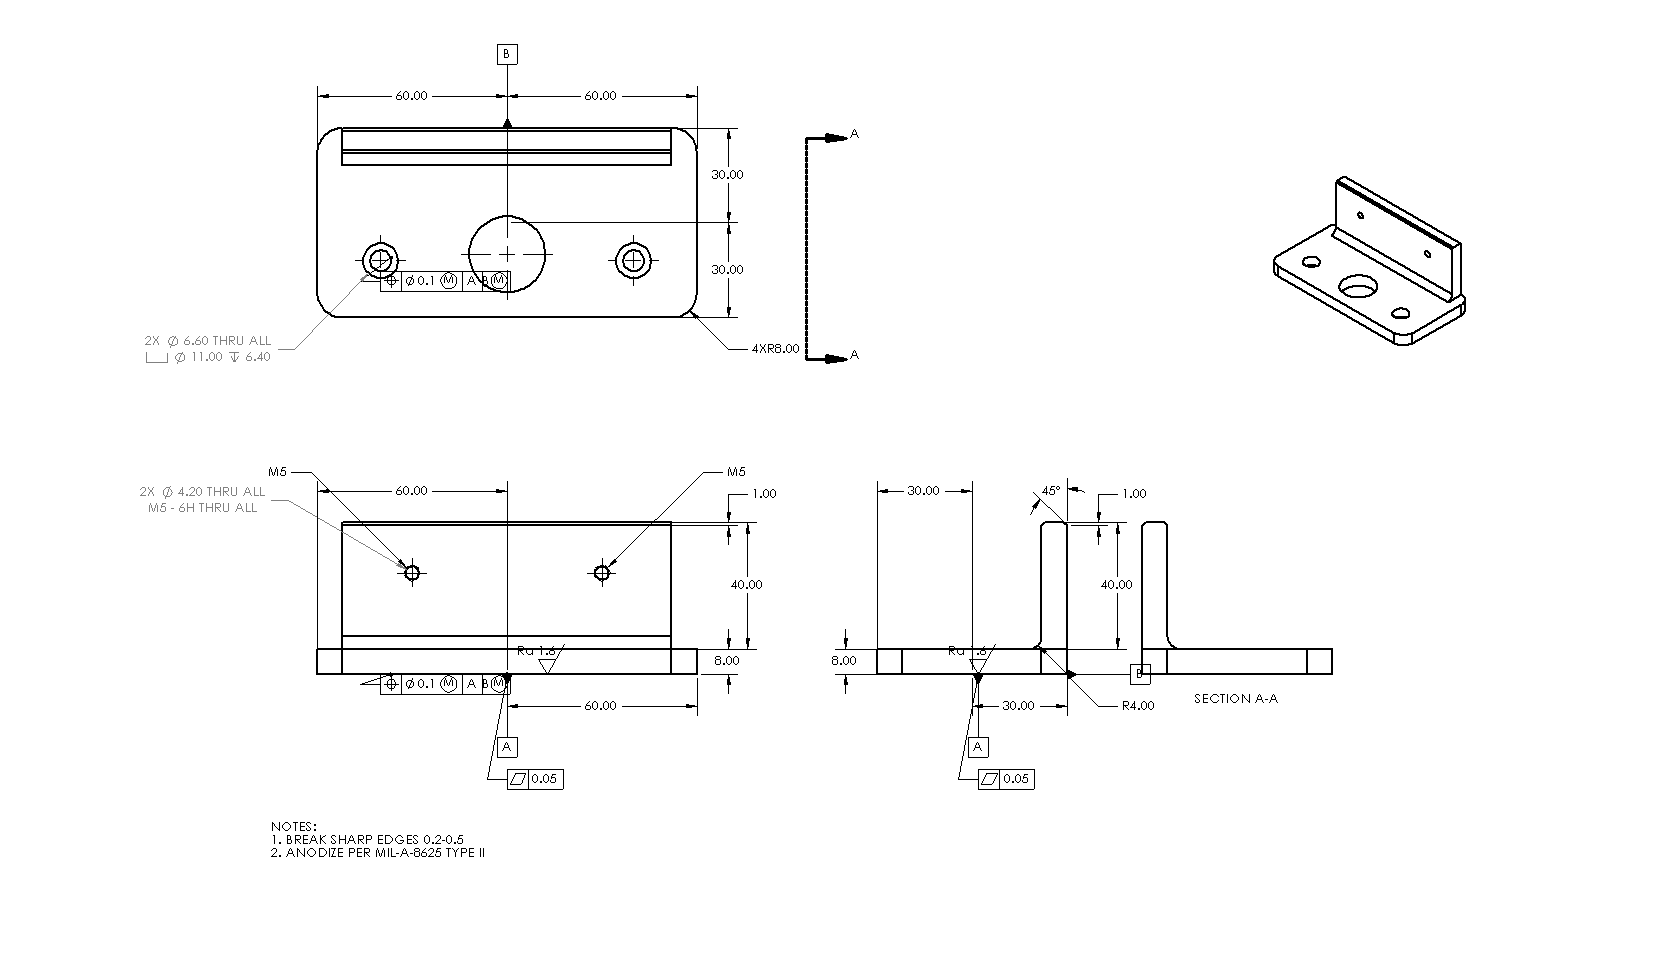
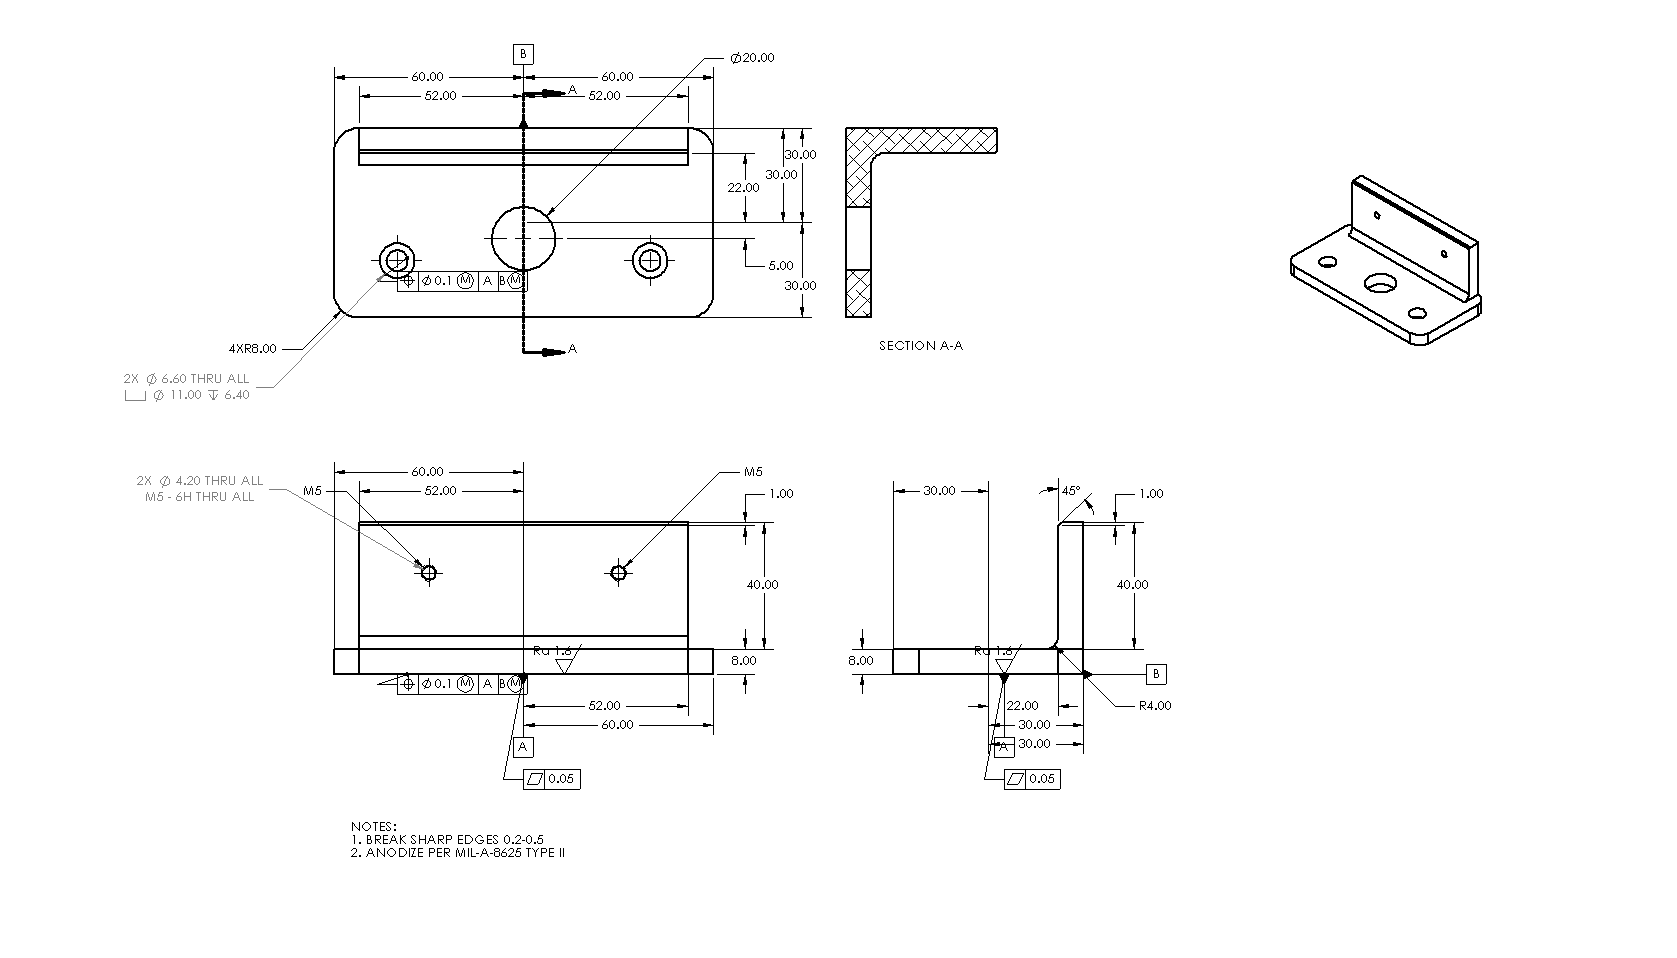
Place section views in free space on the sheet and regenerate the README drawing
Section views go into the first gap beside the parent view that fits on the sheet,
clear of the parent's dimensions. The README bracket drawing showed the old
section bug (cutting line beside the part, no cut); it is regenerated.

diff --git a/src/solidworks_mcp/tools_drawing.py b/src/solidworks_mcp/tools_drawing.py
@@ -322,21 +322,46 @@ def _fit_top_right(view: Any, w: float, h: float, margin: float = 0.015) -> None
         pass
 
 
+def _first_gap(spans: list[tuple[float, float]], start: float, size: float, limit: float, gap: float) -> float | None:
+    """Lowest position >= start where [pos, pos + size] clears every span (with gap) and ends before limit."""
+    pos = start
+    for a, b in sorted(spans):
+        if b + gap <= pos:
+            continue
+        if pos + size + gap <= a:
+            break
+        pos = max(pos, b + gap)
+    return pos if pos + size <= limit else None
+
+
 def _place_beside(view: Any, drw: Any, parent: str, direction: str, gap: float = 0.012) -> None:
-    """Put a section view in free space: right of every view in the parent's row (vertical cut) or
-    below every view in the parent's column (horizontal cut)."""
+    """Put a section view in free space on the sheet, aligned with its parent: in the parent's row for a
+    vertical cut (right of the parent, else left), in its column for a horizontal cut (below, else above)."""
     try:
         own = view.Name
         x0, y0, x1, y1 = _outline(view)
-        others = [v for v in _views(drw) if v["name"] != own]
-        par = next(v for v in others if v["name"] == parent)
-        px0, py0, px1, py1 = (mm(c) for c in par["outline_mm"])
+        w, h = _sheet_size(drw)
+        margin = 0.01
+        others = [[mm(c) for c in v["outline_mm"]] for v in _views(drw) if v["name"] != own]
+        par = [mm(c) for c in next(v for v in _views(drw) if v["name"] == parent)["outline_mm"]]
         if direction == "vertical":
-            row = [mm(v["outline_mm"][2]) for v in others if mm(v["outline_mm"][1]) < py1 and mm(v["outline_mm"][3]) > py0]
-            _move_outline(view, left=max(row) + gap)
+            row = [(o[0], o[2]) for o in others if o[1] < y1 and o[3] > y0]
+            pos = _first_gap(row, par[2] + gap, x1 - x0, w - margin, gap)
+            if pos is not None:
+                _move_outline(view, left=pos)
+            else:  # mirror the search to the left of the parent
+                mirrored = [(w - b, w - a) for a, b in row]
+                pos = _first_gap(mirrored, w - par[0] + gap, x1 - x0, w - margin, gap)
+                _move_outline(view, right=w - pos) if pos is not None else _move_outline(view, left=max(b for _, b in row) + gap)
         else:
-            col = [mm(v["outline_mm"][1]) for v in others if mm(v["outline_mm"][0]) < px1 and mm(v["outline_mm"][2]) > px0]
-            _move_outline(view, top=min(col) - gap)
+            col = [(h - o[3], h - o[1]) for o in others if o[0] < x1 and o[2] > x0]  # measured downwards from the top
+            pos = _first_gap(col, h - par[1] + gap, y1 - y0, h - margin, gap)
+            if pos is not None:
+                _move_outline(view, top=h - pos)
+            else:
+                up = [(o[1], o[3]) for o in others if o[0] < x1 and o[2] > x0]
+                pos = _first_gap(up, par[3] + gap, y1 - y0, h - margin, gap)
+                _move_outline(view, bottom=pos) if pos is not None else _move_outline(view, top=min(o[1] for o in others) - gap)
     except Exception:
         pass
 
@@ -468,7 +493,7 @@ def section_view(
     if sv is None:
         raise SwError("SolidWorks could not create the section view (does the line cross the part?).")
     sv = SW.cast(sv, "IView")
-    _place_beside(sv, drw, view, direction)
+    _place_beside(sv, drw, view, direction, gap=0.03)  # leave room for the parent view's dimensions
     o = [round(to_mm(c), 2) for c in _outline(sv)]
     doc.ForceRebuild3(True)
     hatched = sv.GetFaceHatchCount()

diff --git a/tests/test_units.py b/tests/test_units.py
@@ -244,3 +244,14 @@ def test_sketch_references():
     assert _SEG_RE.match("SEG@4,5") is not None
     for bad in ("seg", "seg:", "seg@1", "face@1,2,3", "pt:1.5"):
         assert _SEG_RE.match(bad) is None, bad
+
+
+def test_view_gap_search():
+    from solidworks_mcp.tools_drawing import _first_gap
+
+    # room between the parent's right edge (0.16) and the next view at 0.30
+    assert _first_gap([(0.03, 0.16), (0.30, 0.41)], 0.172, 0.06, 0.41, 0.012) == pytest.approx(0.172)
+    # the row is full up to the sheet limit: no place
+    assert _first_gap([(0.03, 0.16), (0.17, 0.41)], 0.172, 0.06, 0.41, 0.012) is None
+    # a view in the way is skipped
+    assert _first_gap([(0.18, 0.20)], 0.172, 0.06, 0.41, 0.012) == pytest.approx(0.212)

diff --git a/CHANGELOG.md b/CHANGELOG.md
@@ -54,6 +54,9 @@ All notable changes to this project are documented here. The format follows
 - `section_view` drew its cutting line in sheet coordinates inside the view's own sketch, so the line
   landed beside the part and the section showed no cut. It now cuts where asked.
 - `create_drawing(model=...)` failed when the model was not open; it is now loaded first.
+- Section views are placed in the first free gap beside their parent view inside the sheet, clear of its
+  dimensions, instead of after the last view in the row (which could push them off the sheet). The bracket
+  drawing in the README was regenerated with the corrected section.
 - Features created in sheet metal parts were not found after creation (the flat pattern stays last in
   the tree), which made `ref_plane`, `shell`, `ref_axis` and `loft` report failure there.
 
